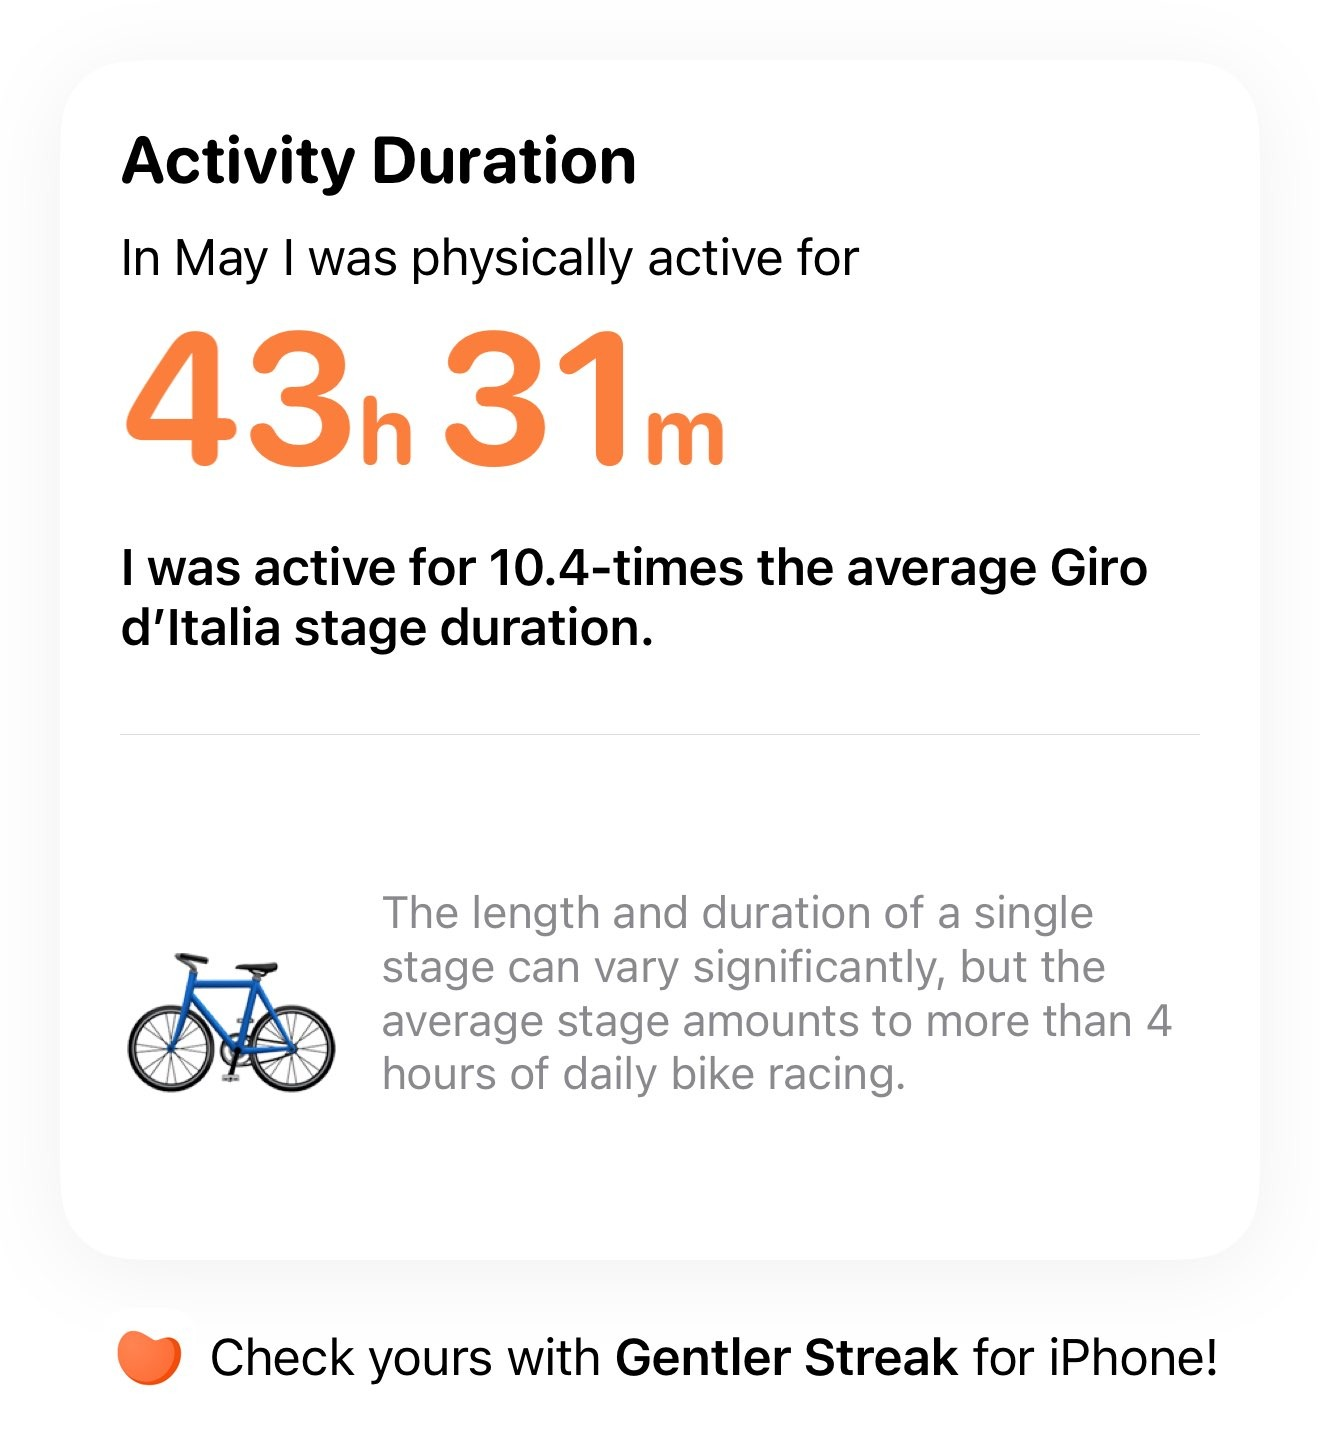
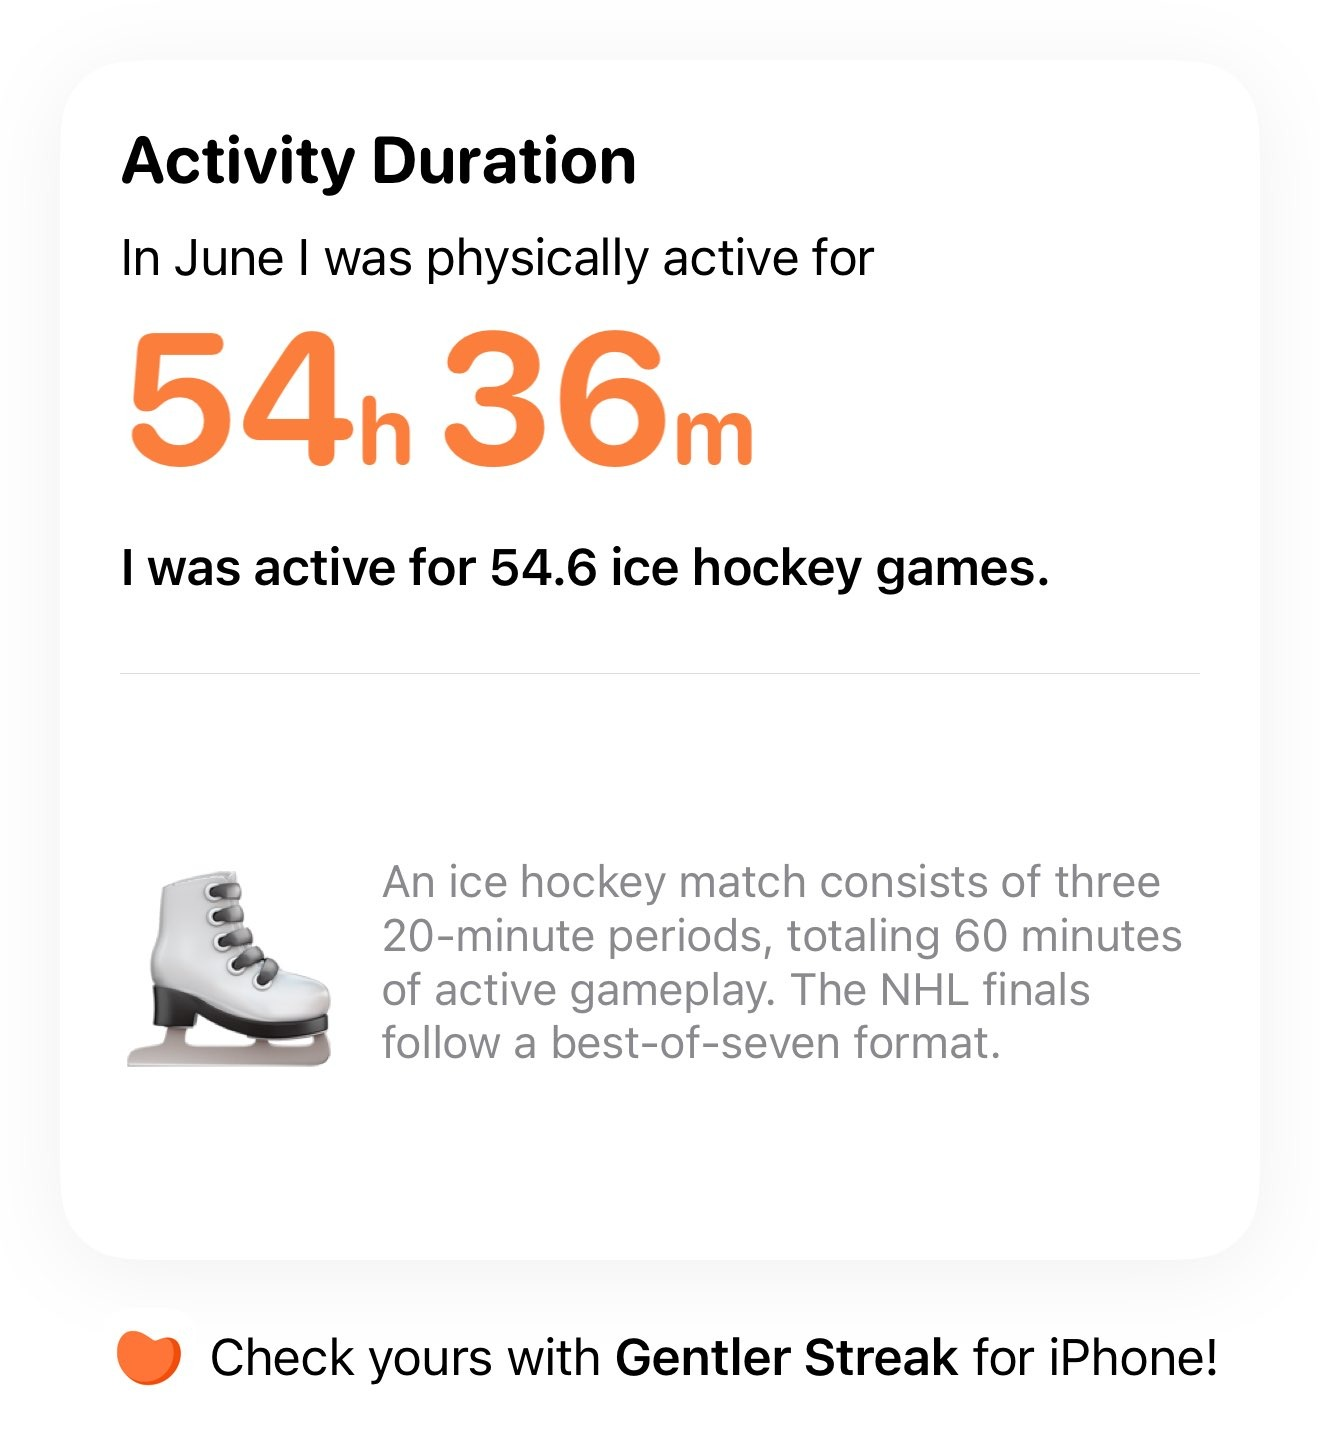
feat: add June 2023 activities and fix May activities

Changed region(s): [[0.0932, 0.5888, 0.9008, 0.7748], [0.0932, 0.155, 0.6523, 0.3409], [0.0932, 0.3719, 0.8697, 0.4649]]

diff --git a/gamification.html b/gamification.html
@@ -949,54 +949,108 @@
             </div>
         </div>
         <div class="resume-item d-flex flex-column flex-md-row">
-            <h3 class="mb-0">Jun</h3>
+            <h3 class="mb-0">May</h3>
             <div class="d-flex flex-row">
                 <div>
                     <img
                             alt="2023 06 activity status"
-                            src="./img/g/2023/2023-jun-activity-status.jpeg"
+                            src="./img/g/2023/2023-may-activity-status.jpeg"
                             style="width: 300px; height: 300px"
                     />
                 </div>
                 <div>
                     <img
                             alt="2023 06 activities"
-                            src="./img/g/2023/2023-jun-activities.jpeg"
+                            src="./img/g/2023/2023-may-activities.jpeg"
                             style="width: 300px; height: 300px"
                     />
                 </div>
                 <div>
                     <img
                             alt="2023 06 activity duration"
-                            src="./img/g/2023/2023-jun-activity-duration.jpeg"
+                            src="./img/g/2023/2023-may-activity-duration.jpeg"
                             style="width: 300px; height: 300px"
                     />
                 </div>
                 <div>
                     <img
                             alt="2023 06 activity energy"
-                            src="./img/g/2023/2023-jun-activity-energy.jpeg"
+                            src="./img/g/2023/2023-may-activity-energy.jpeg"
                             style="width: 300px; height: 300px"
                     />
                 </div>
                 <div>
                     <img
                             alt="2023 06 activity distance"
-                            src="./img/g/2023/2023-jun-activity-distance.jpeg"
+                            src="./img/g/2023/2023-may-activity-distance.jpeg"
                             style="width: 300px; height: 300px"
                     />
                 </div>
                 <div>
                     <img
                             alt="2023 06 activity elevation"
-                            src="./img/g/2023/2023-jun-activity-elevation.jpeg"
+                            src="./img/g/2023/2023-may-activity-elevation.jpeg"
                             style="width: 300px; height: 300px"
                     />
                 </div>
                 <div>
                     <img
                             alt="2023 06 activity hr"
-                            src="./img/g/2023/2023-jun-activity-hr.jpeg"
+                            src="./img/g/2023/2023-may-activity-hr.jpeg"
+                            style="width: 300px; height: 300px"
+                    />
+                </div>
+            </div>
+        </div>
+        <div class="resume-item d-flex flex-column flex-md-row">
+            <h3 class="mb-0">Jun</h3>
+            <div class="d-flex flex-row">
+                <div>
+                    <img
+                            alt="2023 06 activity status"
+                            src="img/g/2023/2023-jun-activity-status.jpeg"
+                            style="width: 300px; height: 300px"
+                    />
+                </div>
+                <div>
+                    <img
+                            alt="2023 06 activities"
+                            src="img/g/2023/2023-jun-activities.jpeg"
+                            style="width: 300px; height: 300px"
+                    />
+                </div>
+                <div>
+                    <img
+                            alt="2023 06 activity duration"
+                            src="img/g/2023/2023-jun-activity-duration.jpeg"
+                            style="width: 300px; height: 300px"
+                    />
+                </div>
+                <div>
+                    <img
+                            alt="2023 06 activity energy"
+                            src="img/g/2023/2023-jun-activity-energy.jpeg"
+                            style="width: 300px; height: 300px"
+                    />
+                </div>
+                <div>
+                    <img
+                            alt="2023 06 activity distance"
+                            src="img/g/2023/2023-jun-activity-distance.jpeg"
+                            style="width: 300px; height: 300px"
+                    />
+                </div>
+                <div>
+                    <img
+                            alt="2023 06 activity elevation"
+                            src="img/g/2023/2023-jun-activity-elevation.jpeg"
+                            style="width: 300px; height: 300px"
+                    />
+                </div>
+                <div>
+                    <img
+                            alt="2023 06 activity hr"
+                            src="img/g/2023/2023-jun-activity-hr.jpeg"
                             style="width: 300px; height: 300px"
                     />
                 </div>
